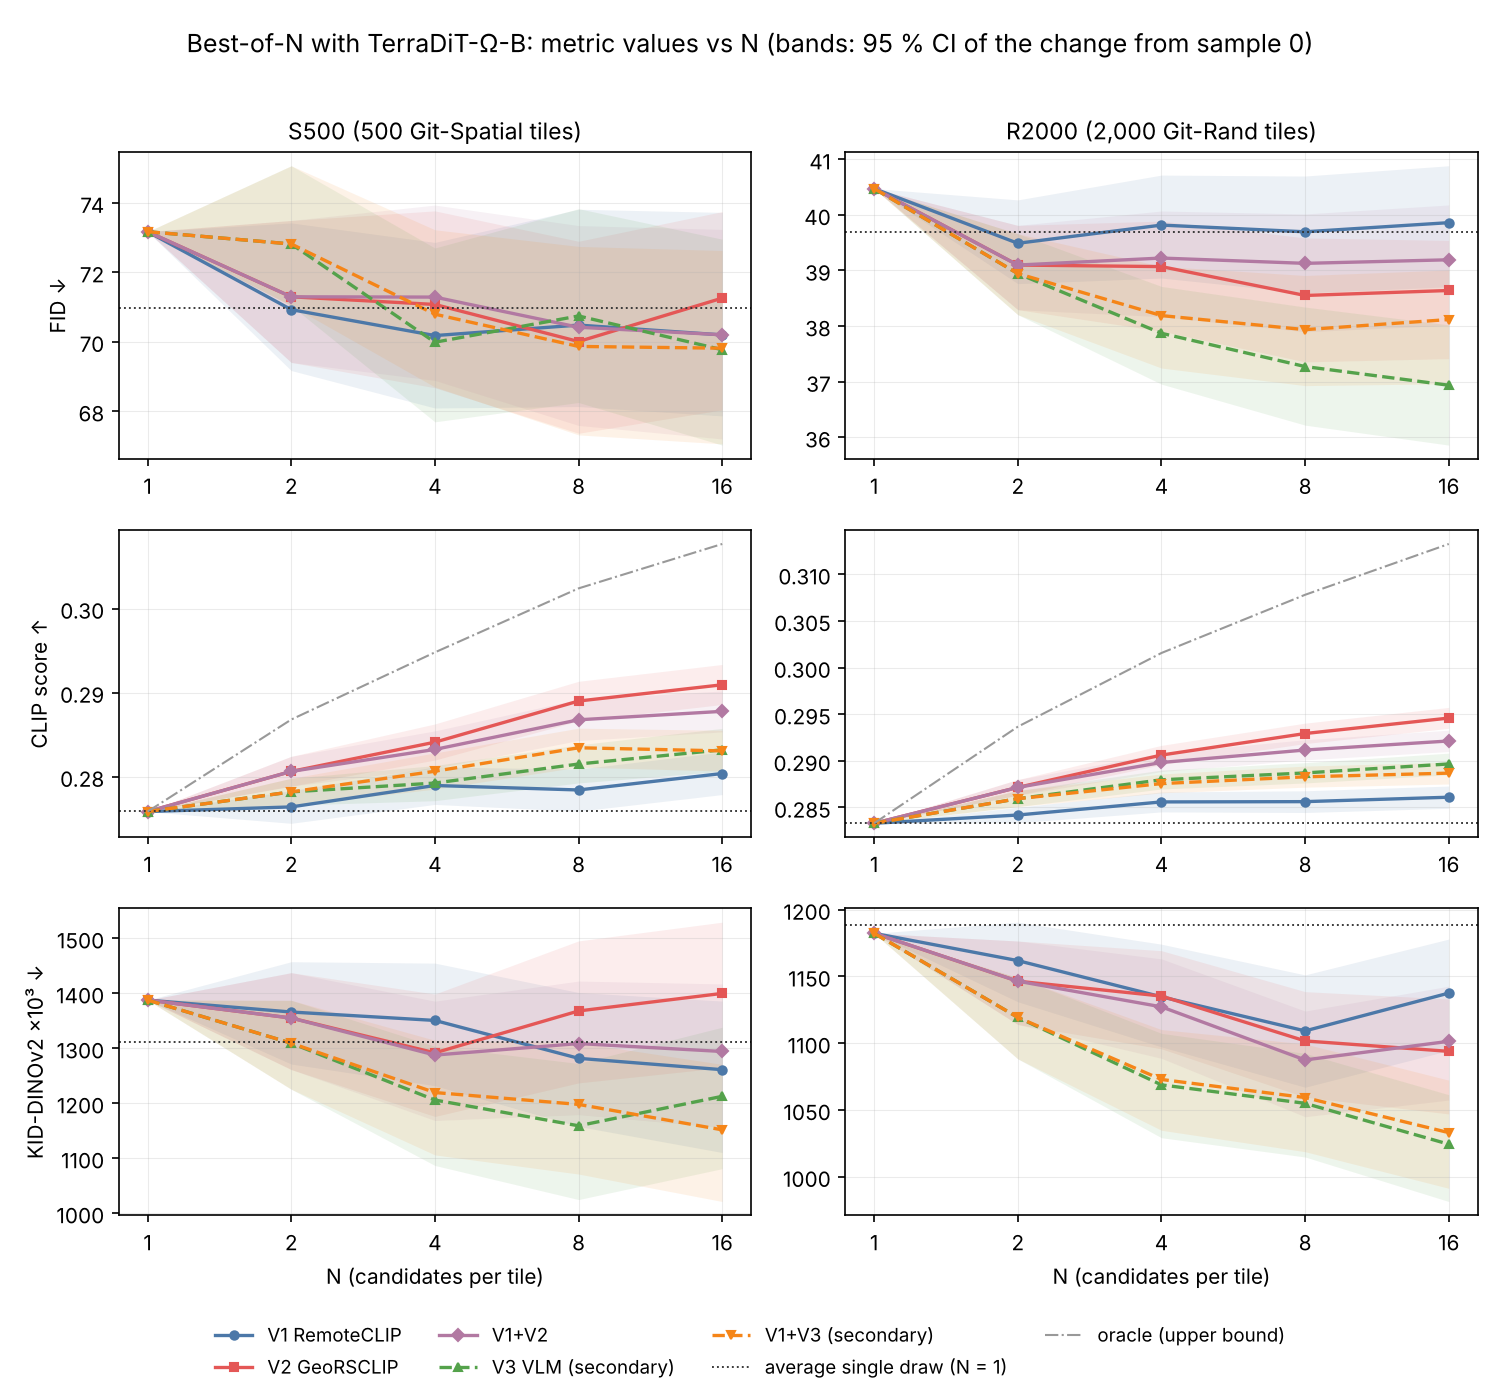
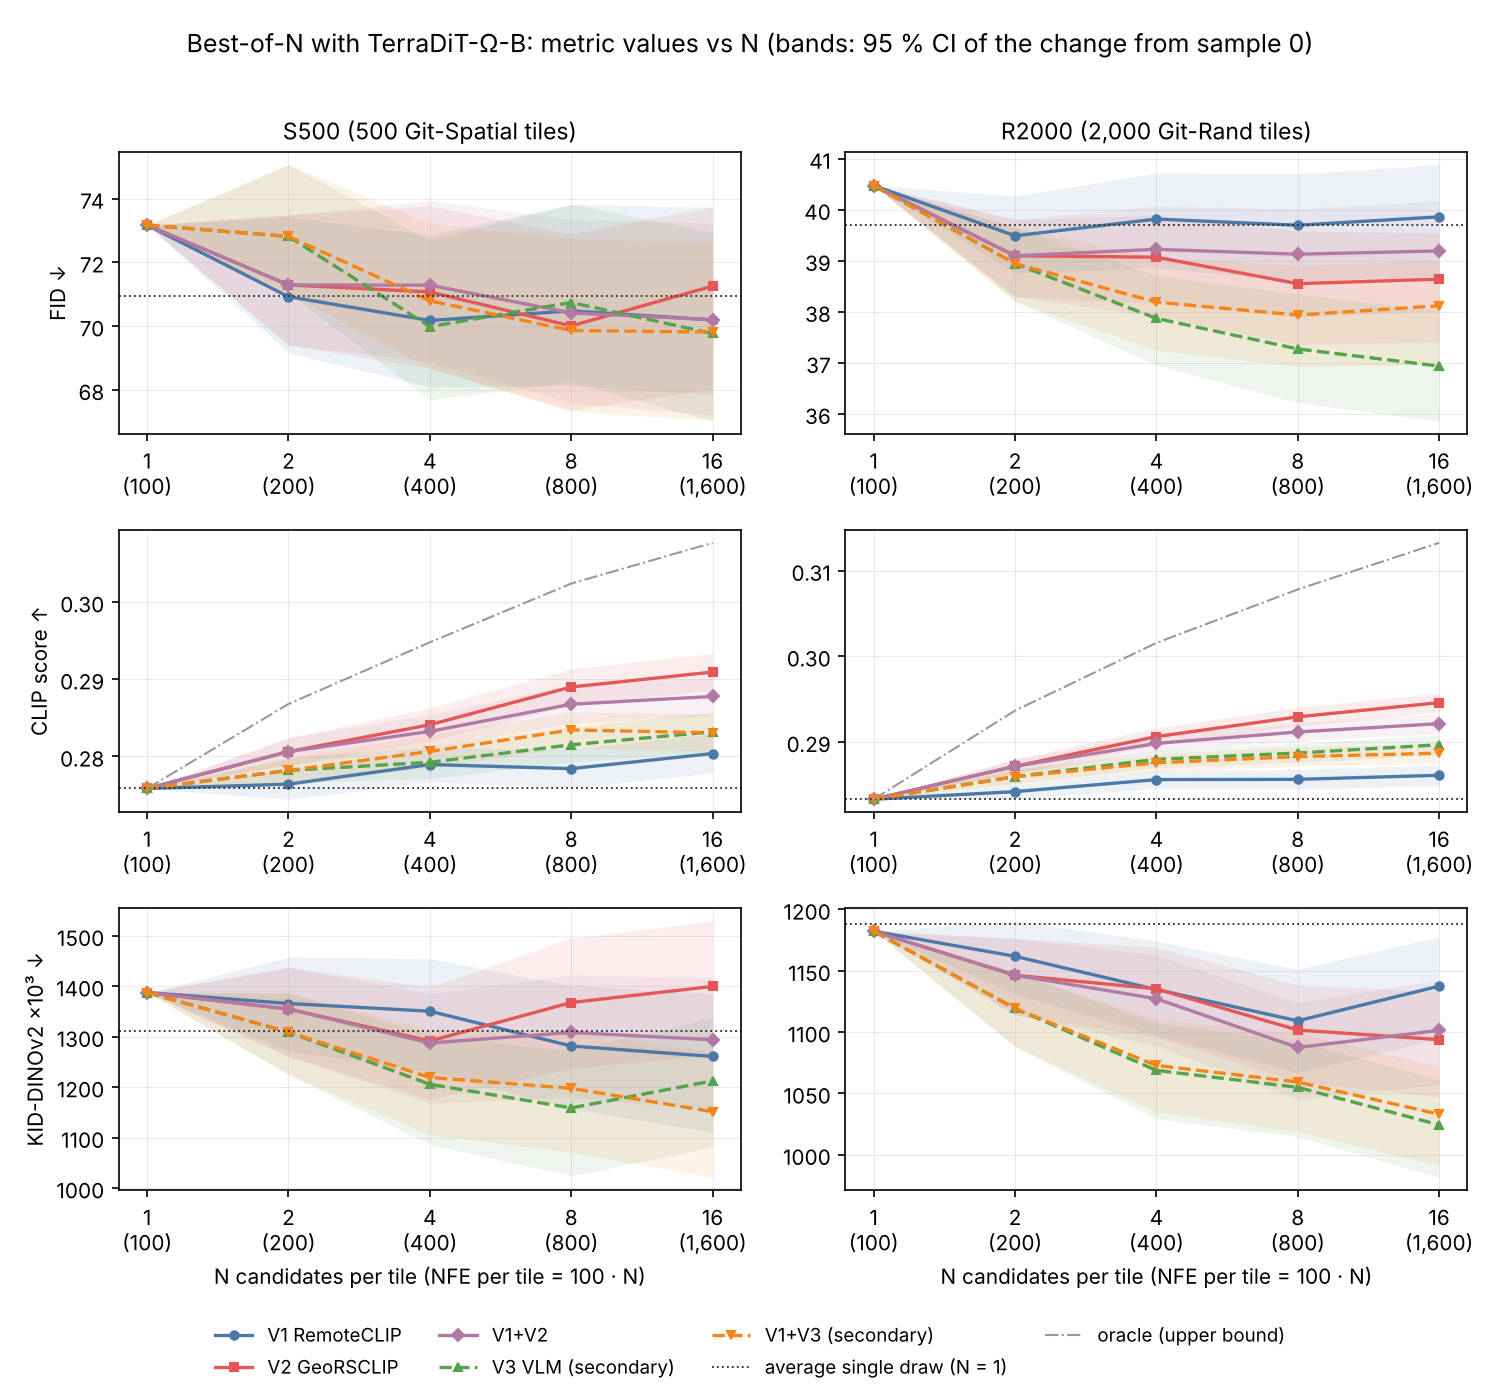
Compute in NFE: 100 Euler steps, CFG 0 -> 100 NFE per sample, 100*N per tile
README and docs/bon_v2_results.md: NFE, VAE decodes, verifier calls and measured time per tile
for N = 1..16; measured V3 scoring cost. Scaling figure: NFE per tile on the x axis.

diff --git a/scripts/16_plot_v2.py b/scripts/16_plot_v2.py
@@ -83,14 +83,14 @@ for j, (s, r) in enumerate(sets.items()):
             ax.plot(ns, [r["oracle"]["clip_cos"][str(n)] for n in ns], color="#999", lw=1, ls="-.",
                     label="oracle (upper bound)")
         ax.set_xscale("log", base=2)
-        ax.set_xticks(ns, [str(n) for n in ns])
+        ax.set_xticks(ns, [f"{n}\n({100 * n:,})" for n in ns])
         ax.grid(alpha=0.25, lw=0.5)
         if i == 0:
             ax.set_title(TITLE.get(s, s), fontsize=11)
         if j == 0:
             ax.set_ylabel(label, fontsize=10)
         if i == len(PANELS) - 1:
-            ax.set_xlabel("N (candidates per tile)")
+            ax.set_xlabel("N candidates per tile (NFE per tile = 100 · N)")
 handles, labels = axes[1][0].get_legend_handles_labels()
 fig.legend(handles, labels, loc="lower center", ncol=4, frameon=False, fontsize=9)
 fig.suptitle("Best-of-N with TerraDiT-Ω-B: metric values vs N (bands: 95 % CI of the change from sample 0)",

diff --git a/docs/bon_v2_results.md b/docs/bon_v2_results.md
@@ -20,6 +20,7 @@ and leaves realism unchanged.
 | Model | TerraDiT-Ω-B (released weights), 100 Euler steps, no guidance, bf16 |
 | Sets | S500: 500 Git-Spatial tiles (held-out region); R2000: 2,000 Git-Rand tiles. Same tiles and seeds as the pilot |
 | Samples | 16 per tile, independent seeds; Best-of-N picks one of samples 0 … N−1, N ∈ {1, 2, 4, 8, 16} |
+| Compute | 100 Euler steps, CFG 0: 100 NFE per sample, 100 · N NFE per tile (see Compute below) |
 | Primary verifiers | V1 RemoteCLIP ViT-B/32, V2 GeoRSCLIP ViT-L/14, V1+V2 rank average |
 | Secondary verifiers | V3 InternVL3-2B, P("yes") to "Does this figure show {caption}?" (amendment 2); V1+V3 rank average |
 | Evaluators | CLIP ViT-L/14 score, LPIPS and SSIM vs the tile's real image, FID, KID-Inception, KID-DINOv2 |
@@ -53,6 +54,24 @@ and it reproduces under another batch layout and in fp32, so no defect in genera
 was found. Because a single draw is a noisy reference for set-level metrics, amendment 3 adds
 the **average single draw** as a second reference. For S500 and R2000 that reference is
 post-hoc; for RFULL it was fixed before the analysis.
+
+## Compute: NFE
+
+Sampler: the authors' `euler_sampler`, 100 steps, CFG scale 0 (`heun=False`), so one forward
+pass of the denoiser per step and no unconditional pass: **100 NFE per sample**. Best-of-N with
+N candidates costs **100 · N NFE per tile** (the samples are independent; nothing is shared).
+
+| N (candidates per tile) | 1 | 2 | 4 | 8 | 16 |
+| --- | --- | --- | --- | --- | --- |
+| NFE per tile (denoiser forward passes) | 100 | 200 | 400 | 800 | 1,600 |
+| VAE decodes per tile | 1 | 2 | 4 | 8 | 16 |
+| Verifier calls per tile | – | 2 | 4 | 8 | 16 |
+| Generation time per tile, Ω-B, bf16, RTX 3060 (measured 2.86 s per image) | 2.9 s | 5.7 s | 11.4 s | 22.9 s | 45.7 s |
+
+Not counted in NFE: N VAE decodes (inside the measured generation time) and N verifier calls.
+Measured: generation 2.86 s per image (S500), 2.88 s (R2000), 2.95 s (RFULL, with CPU analysis
+running alongside); V3 scoring 1.5 s per tile of 16 samples (about 0.09 s per image). NFE is the
+budget unit for comparing search algorithms with Best-of-N in the next stage.
 
 ## Figures
 

diff --git a/README.md b/README.md
@@ -151,6 +151,24 @@ by V1, V2 and V3):
 
 ![Examples, S500](docs/assets/bon_v2_examples_S500.png)
 
+### Compute: NFE
+
+Every sample is generated with the authors' Euler sampler, **100 steps, no classifier-free
+guidance** (as in the paper), so one denoiser forward pass per step: **100 NFE per sample**.
+Best-of-N costs **100 · N NFE per tile**, plus N VAE decodes and N verifier calls:
+
+| N (candidates per tile) | 1 | 2 | 4 | 8 | 16 |
+| --- | --- | --- | --- | --- | --- |
+| NFE per tile (denoiser forward passes) | 100 | 200 | 400 | 800 | 1,600 |
+| VAE decodes per tile | 1 | 2 | 4 | 8 | 16 |
+| Verifier calls per tile | – | 2 | 4 | 8 | 16 |
+| Generation time per tile, Ω-B, bf16, RTX 3060 (measured 2.86 s per image) | 2.9 s | 5.7 s | 11.4 s | 22.9 s | 45.7 s |
+
+Measured verifier cost: V3 (InternVL3-2B) scores the 16 samples of a tile in 1.5 s, about
+0.09 s per image, 3 % of the generation time; V1 and V2 are single CLIP forward passes. The
+search algorithms of the next stage (Rollover Budget Forcing, zero-order search, search over
+paths) will be compared with Best-of-N at equal NFE.
+
 ### Registered primary endpoints (N = 16 vs sample 0)
 
 | Set | Verifier | CLIP gain | FID change | Guard (KID-DINOv2) | Verdict |
